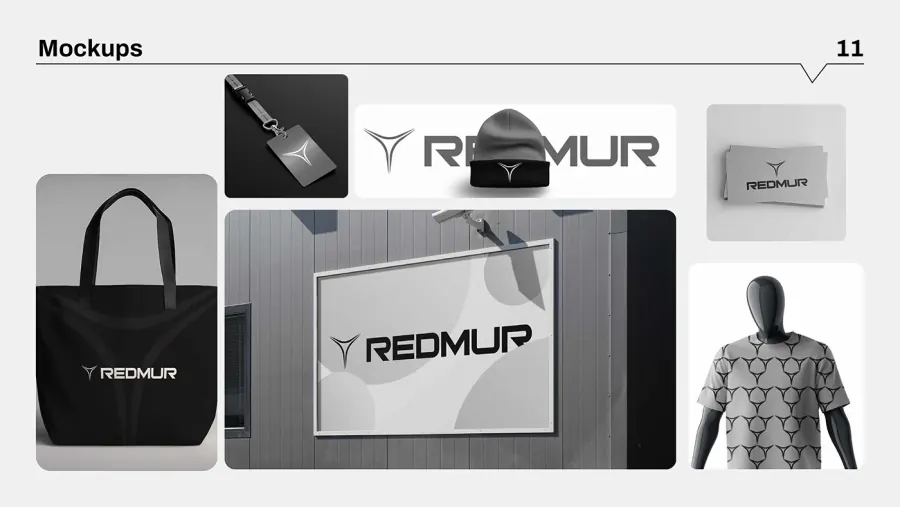
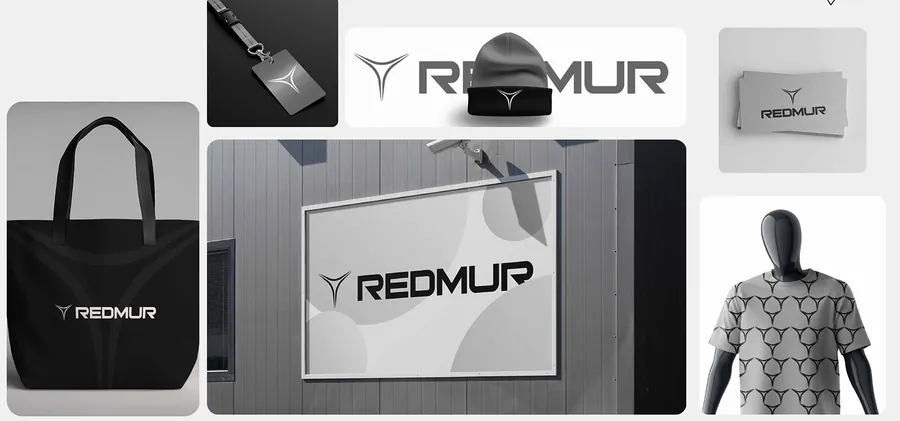
Crop the applications free of the guideline page, move the control left
Three fixes.

The application tiles held whole guideline pages cropped to fit, so every one
showed its header, its "PAGE 25" number, the footer rule and — on the on-site
page — a column of body copy explaining what the reader was already looking
at. They read as screenshots of a PDF rather than as work. Each now holds only
the photography: regions measured off the 1920px originals and cut free of the
page furniture entirely.

The panel still described the section as "four project placeholders". Two of
the four have been real client work since the guidelines landed, so the copy
was telling visitors that finished work was a mockup.

The close and back control moves to the leading edge of the panel.

Imagery comes to 274KB against the 1200KB budget, the largest file 75KB
against a 180KB cap.

diff --git a/src/data/planets.ts b/src/data/planets.ts
@@ -11,7 +11,7 @@ export const PLANETS: readonly PlanetContent[] = [
     panel: {
       eyebrow: 'Selected Work',
       title: 'Selected case studies and project previews.',
-      body: 'A client-facing showcase with four project placeholders. Each project card is clickable and behaves like a real portfolio entry.',
+      body: 'Brand guideline systems and cover work. Open a project to see the marks, palette, type and applications as they were delivered.',
       projects: [
         {
           id: 'redmur',

diff --git a/src/styles/scene.css b/src/styles/scene.css
@@ -314,7 +314,7 @@
    surface gives a pointer no target to find without reading it. */
 .panel-bar{
   position:sticky; top:0; z-index:3;
-  display:flex; justify-content:flex-end;
+  display:flex; justify-content:flex-start;
   margin:0 -48px var(--space-5); padding:28px 48px 14px;
   background:linear-gradient(to bottom, rgba(7,8,11,0.97) 62%, rgba(7,8,11,0));
 }
